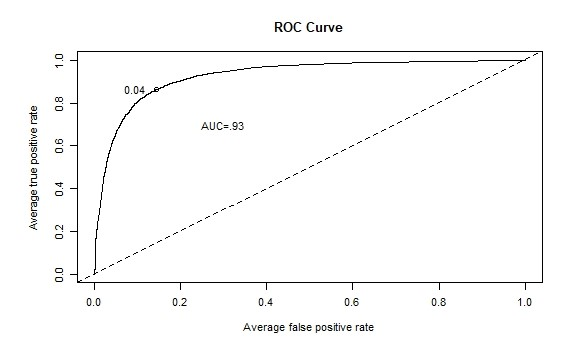
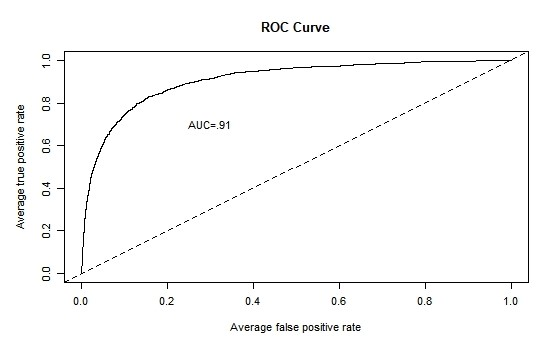
update

diff --git a/_posts/2019-12-07-customerchurn.md b/_posts/2019-12-07-customerchurn.md
@@ -144,19 +144,24 @@ This may look great but it's not exactly what we want. Maximizing model accuracy
 
 Maximum accuracy will produce a model that attempts to maximize *combined* accuracy for true positives and true negatives.  
 
-We are more interested in *maximizing true positives and accepting a larger number of false positives*.  Why?  To take corrective action, the business must reach out to customers *before* they drop the service.  Accordingly, the objective is to identify the most properly identified customers (true postives) recogizing that to boost this number we will also falsely identify some customers as intending to drop that won't (false positives).  And that's ok.  Reaching out to the "wrong" customers can also have favorable benefits.  But we don't want the imbalance between true positives and false positives to be extreme.  This requires a judgment call.
+We are more interested in *maximizing true positives and accepting a larger number of false positives*.  Why?  To take corrective action, the business must reach out to customers *before* they drop the service.  Accordingly, the objective is to identify the most properly identified customers (true positives) recognizing that to boost this number we will also falsely identify some customers as intending to drop that won't (false positives).  And that's ok.  Reaching out to the "wrong" customers can also have favorable benefits.  But we don't want the imbalance between true positives and false positives to be extreme.  This requires a judgment call.
 
 So how do we find the "right" combination of true positives and false positives?
 
+The ROC Curve represents the universe of confusion matrices.  Each point on the curve represents the trade off between true positives and false positives for a specific threshold.  The threshold, or "cutoff", sets the probability above which a model classifies as positive and below which the model classifies as negative.  Normally, with a balance data set (approximately equal positives and negatives) the threshold is set to 0.5.  
 
+The area under the ROC Curve (AUC) is also a model performance metric.  As an aside it is worth noting the AUC of our final model is approximately 0.92.  It's a good model.
 
-
-The In attempting to maximize accuracy the model tends to correctly classify negatives in which we are not interested.    
-
-
-The best model had an AUC of approximately 0.92 for the training data and 0.91 against validation data.
+The ROC Curve is show below:
 
 <img src="{{site.url}}{{ site.baseurl }}/images/churn/ROC_curve.jpeg" alt="ROC curve">
+
+So how is the "best" model determined?  The ROC curve provides the best "universe" of solutions.  We must determine the appropriate "cutoff" - or decision threshold - that gives us the optimal mix of true positives, false positives, and false negatives.  Again, in other words, the "optimal" precision and recall for our purposes.
+
+We find the optimal threshold / point on the ROC curve in this case by balancing sensitivity and specificity.  Stated a bit differently, we want to find the point on the curve where rate-of-change in the sensitivity (true positive rate) equals the rate-of-change in 1 - specificity (false positive rate).  This gives us a "balance" between true positives and false positives.  This point occurs where the threshold value = 0.1204.
+
+
+
 
 However, AUC alone does not help address our optimal solution for the business problem at hand.  The ROC curve summarizes the universe of confusion matrices associated with this model.  A confusion matrix summarizes model performance at a given *theshold* (point on the ROC curve) in terms of true and false positives and negatives.  
 
@@ -171,13 +176,10 @@ The confusion matrix at this point shows the following.
 
 <img src="{{site.url}}{{ site.baseurl }}/images/churn/cmmaxaccuracy.jpeg" alt="Accuracy Plot">
 
-Accuracy is often not the best metric for classification.  This is because the model will attempt to maximize *overall* accuracy.
 
-I am not interested in overall accuracy (maximizing true positives + true negatives).  The business objective is to identify customers predicted to drop the service (true positives).  We want to maximize true positives *subject to* an "acceptable" number of false positives and false negatives.  In other words, we're ok with a model that has some predictive error if it gets us incrementally more true positives than we get using overall accuracy so long as the error (false positives and false negatives) are not "overwhelming".  This is a subjective decision supported by analytics.
 
-So how do I find the "best" model?  We have already turned the model's hyperparameters.  This gives us the best "universe" of solutions.  We must determine the appropriate "cutoff" - or decision threshold - that gives us the optimal mix of true positives, false positives, and false negatives.  Again, in other words, the "optimal" precision and recall for our purposes.
 
-We find the optimal threshold / point on the ROC curve in this case by balancing sensitivity and specificity.  Stated a bit differently, we want to find the point on the curve where rate-of-change in the sensitivity (true positive rate) equals the rate-of-change in 1 - specificity (false positive rate).  This gives us a "balance" between true positives and false positives.  This point occurs where the threshold value = 0.04.
+
 
 <img src="{{site.url}}{{ site.baseurl }}/images/churn/cm_optimal.jpeg" alt="">
 
